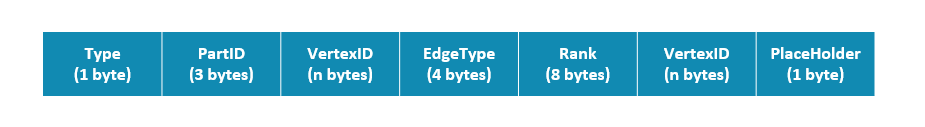
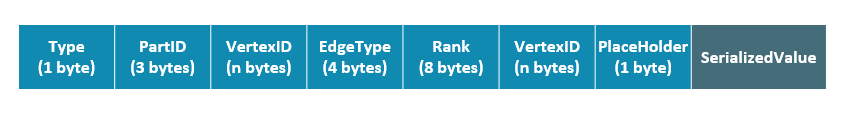
Update edge format

Changed region(s): [[0.0, 0.2087, 0.9846, 0.7826]]

diff --git a/docs-2.0/1.introduction/3.nebula-graph-architecture/4.storage-service.md b/docs-2.0/1.introduction/3.nebula-graph-architecture/4.storage-service.md
@@ -86,7 +86,7 @@ Nebula Graph 使用自行开发的 KVStore，而不是其他开源 KVStore，原
     |`PartID`|数据分片编号。长度为 3 字节。此字段主要用于 Storage 负载均衡（balance）时方便根据前缀扫描整个分片的数据。|
     |`VertexID`|点 ID。当点 ID 类型为 int 时，长度为 8 字节；当点 ID 类型为 string 时，长度为创建图空间时指定的`fixed_string`长度。|
     |`TagID`|点关联的 Tag ID。长度为 4 字节。|
-    |`SerializedValue`|序列化的 value，用于保存点的属性和属性值。|
+    |`SerializedValue`|序列化的 value，用于保存点的属性信息。|
 
 - 边数据存储格式
 
@@ -100,6 +100,7 @@ Nebula Graph 使用自行开发的 KVStore，而不是其他开源 KVStore，原
     |`Edge type`|边的类型。大于 0 表示"出边"，小于 0 表示"入边"。长度为 4 字节。|
     |`Rank`|用来处理两点之间有多个同类型边的情况。用户可以根据自己的需求进行设置，例如存放交易时间、交易流水号等。长度为 8 字节，|
     |`PlaceHolder`|预留字段。长度为 1 字节。|
+    |`SerializedValue`|序列化的 value，用于保存边的属性信息。|
 
 ### 属性说明
 
@@ -119,15 +120,15 @@ Nebula Graph 中逻辑上的一条边对应着硬盘上的两个键值对（key-
 
 ![edge storage](edge-division.png)
 
-上图以最简单的两个点和一条边为例，起点 SrcVertex 通过边 EdgeA 连接目的点 DstVertex，形成路径`(SrcVertex)-[EdgeA]->(DstVertex)`。这两个点和一条边会以 4 个键值对的形式保存在存储层的两个不同分片，即 Partition x 和 Partition y 中，详细说明如下：
+上图以最简单的两个点和一条边为例，起点 SrcVertex 通过边 EdgeA 连接目的点 DstVertex，形成路径`(SrcVertex)-[EdgeA]->(DstVertex)`。这两个点和一条边会以 6 个键值对的形式保存在存储层的两个不同分片，即 Partition x 和 Partition y 中，详细说明如下：
 
-* 点 SrcVertex 的键值保存在 Partition x 中。key 的字段有 Type、PartID（x），VID（Src）和 TagID。SerializedValue 即 value，是序列化的点属性。
+* 点 SrcVertex 的键值保存在 Partition x 中。
 
-* 点 EdgeA 的第一份键值，这里用 EdgeA_Out 表示，与 SrcVertex 一同保存在 Partition x 中。key 的字段有 Type、PartID（x）、VID（Src，即点 SrcVertex 的 ID）、EdgeType（符号为正，代表边方向为出）、Rank（0）、VID（Dst，即点 DstVertex 的 ID）和 PlaceHolder。SerializedValue 即 Value，是序列化的边属性。
+* 边 EdgeA 的第一份键值，这里用 EdgeA_Out 表示，与 SrcVertex 一同保存在 Partition x 中。key 的字段有 Type、PartID（x）、VID（Src，即点 SrcVertex 的 ID）、EdgeType（符号为正，代表边方向为出）、Rank（0）、VID（Dst，即点 DstVertex 的 ID）和 PlaceHolder。SerializedValue 即 Value，是序列化的边属性。
 
-* 点 DstVertex 的键值保存在 Partition y 中。key 的字段有 Type、PartID（y），VID（Dst）和 TagID。SerializedValue 即 Value，是序列化的点属性。
+* 点 DstVertex 的键值保存在 Partition y 中。
 
-* 点 EdgeA 的第二份键值，这里用 EdgeA_In 表示，与 DstVertex 一同保存在 Partition y 中。key 的字段有 Type、PartID（y）、VID（Dst，即点 DstVertex 的 ID）、EdgeType（符号为负，代表边方向为入）、Rank（0）、VID（Src，即点 SrcVertex 的 ID）和 PlaceHolder。SerializedValue 即 Value，是序列化的边属性，与 EdgeA_Out 中该部分的完全相同。
+* 边 EdgeA 的第二份键值，这里用 EdgeA_In 表示，与 DstVertex 一同保存在 Partition y 中。key 的字段有 Type、PartID（y）、VID（Dst，即点 DstVertex 的 ID）、EdgeType（符号为负，代表边方向为入）、Rank（0）、VID（Src，即点 SrcVertex 的 ID）和 PlaceHolder。SerializedValue 即 Value，是序列化的边属性，与 EdgeA_Out 中该部分的完全相同。
 
 EdgeA_Out 和 EdgeA_In 以方向相反的两条边的形式存在于存储层，二者组合成了逻辑上的一条边 EdgeA。EdgeA_Out 用于从起点开始的遍历请求，例如`(a)-[]->()`；EdgeA_In 用于指向目的点的遍历请求，或者说从目的点开始，沿着边的方向逆序进行的遍历请求，例如例如`()-[]->(a)`。
 
